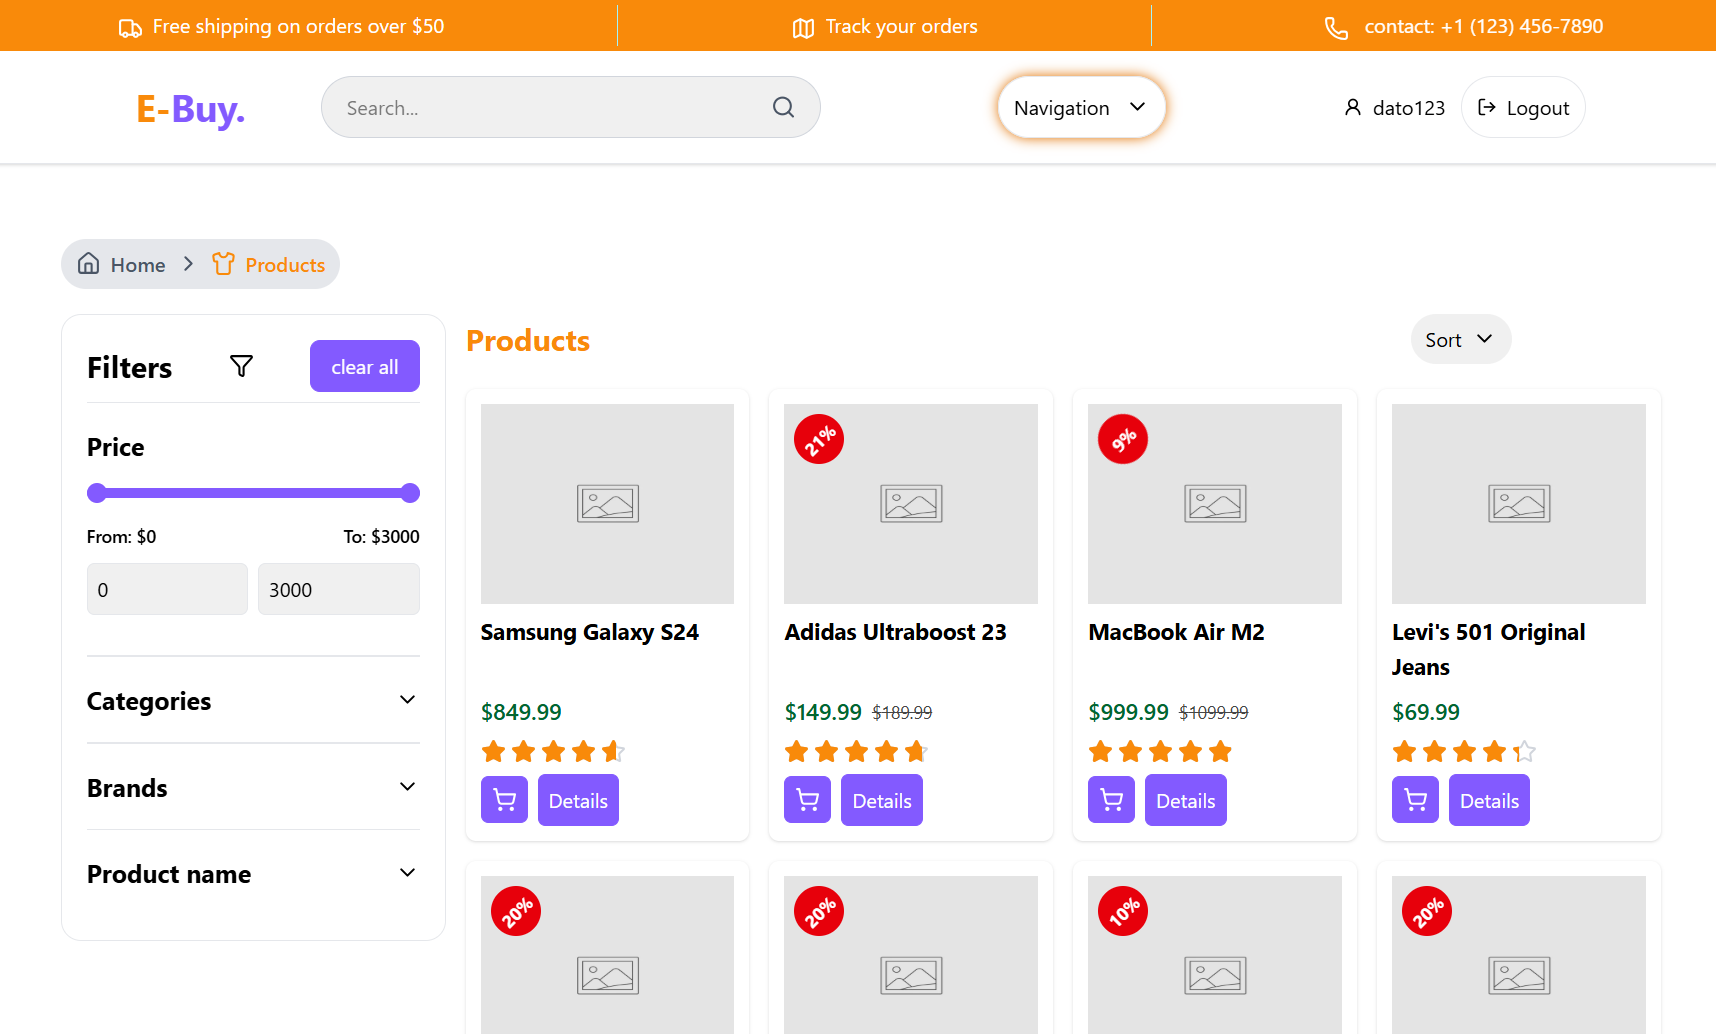
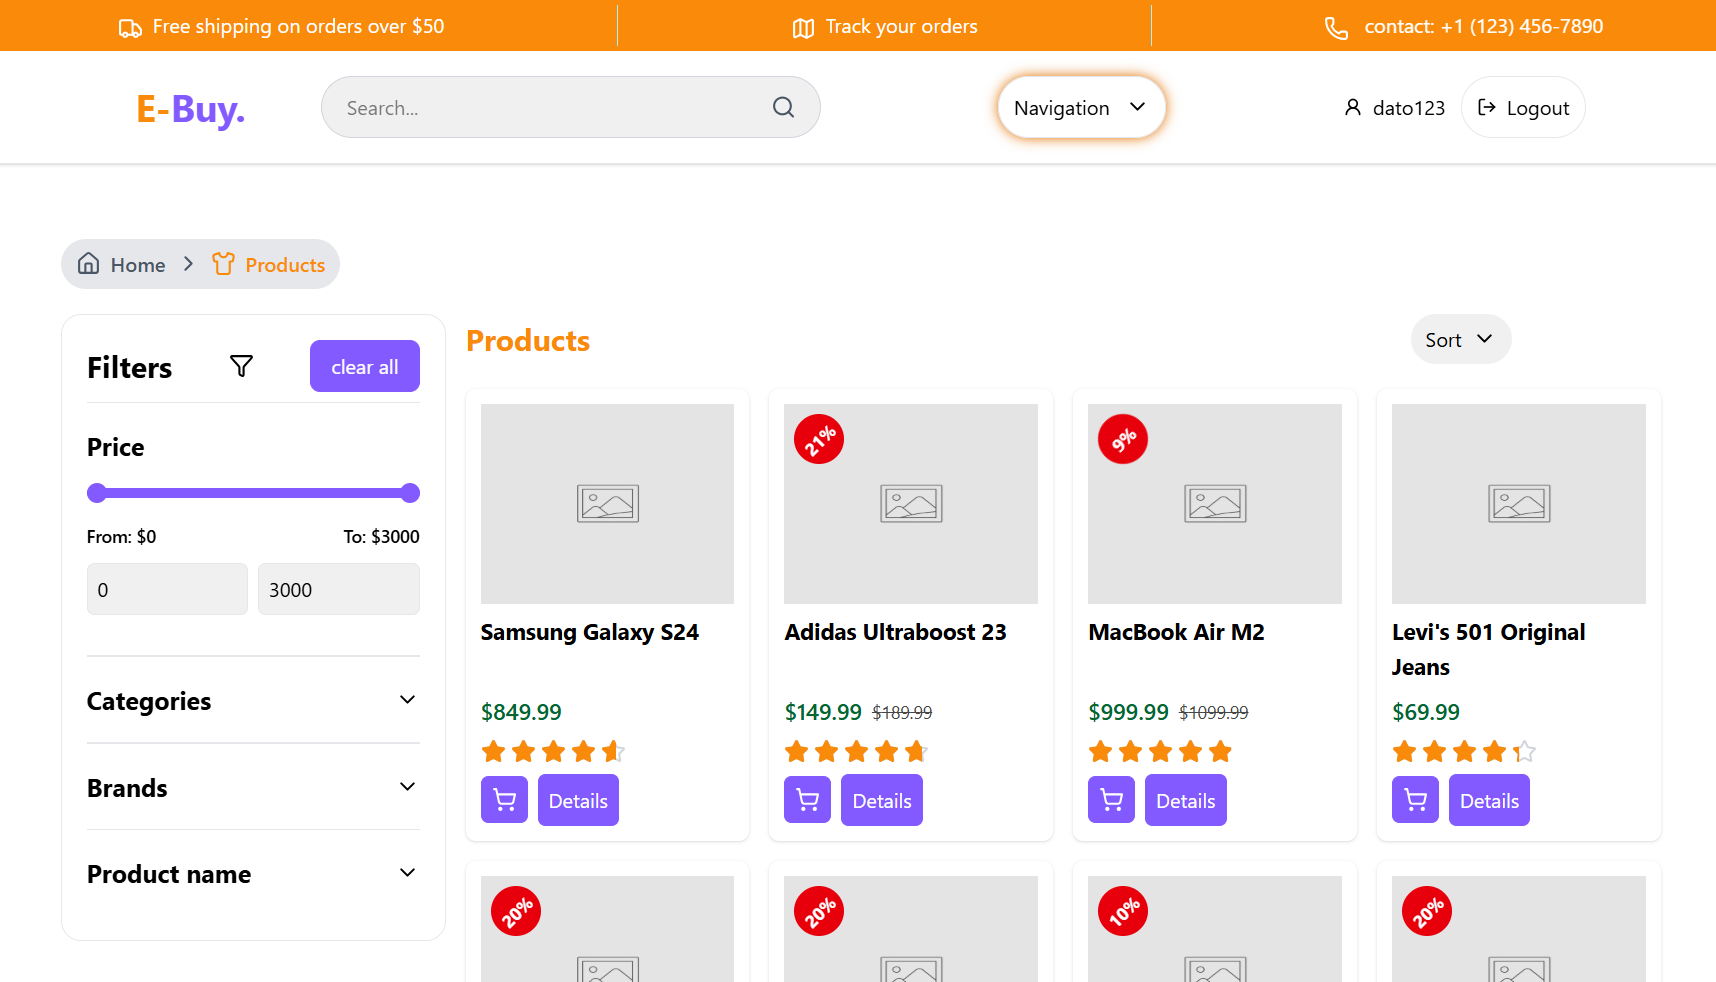
...

diff --git a/src/components/Projects.js b/src/components/Projects.js
@@ -15,6 +15,15 @@ const Projects = () => {
       accents: ["pixel-perfect", "responsive", "accessibility", "semantic HTML", "CSS-only burger menu", "best practices", "SEO-friendly", "performance optimization"]
     },
     {
+      img: assets.ecommercestatic,
+      title: "STATIC ECOMMERCE STORE",
+      languages: ["html", "css", "javascript"],
+      githubLink: "https://github.com/giorgi583/js_fp.git",
+      deployment: ["Github pages"],
+      link: "https://giorgi583.github.io/js_fp/",
+      accents: ["responsive", "accessibility", "semantic HTML", "Theme prefference", "best practices", "SEO-friendly", "performance optimization", "product search", "product filtering", "product sorting", "form validation", "fake API"]
+    },
+    {
       img: assets.movies,
       title: "MOVIES APP",
       languages: ["React", "Plain css"],
@@ -57,7 +66,7 @@ const Projects = () => {
       githubLink: "https://github.com/giorgi583/e-commerce.git",
       deployment: ["Render", "Neon"],
       link: "https://e-commerce-owmt.onrender.com/",
-      accents: [ "Full-stack", "Real Authorization/authentication", "admin pages", "responsive", "Lazy loading", "user-friendly", "pagination", "filtering",  "API integration",  "routes" ]
+      accents: [ "Full-stack", "Real Authorization/authentication", "admin pages", "responsive", "Lazy loading", "user-friendly", "pagination",  "API integration",  "product sorting/filtering", "cart", "checkout", "details page" ]
     },
     {
       img: assets.financial,

diff --git a/src/assets/assets.js b/src/assets/assets.js
@@ -1,5 +1,6 @@
 import sprivaten from './projectPics/sprivaten.png'
 import ecommerce from './projectPics/ecommerce.png'
+import ecommercestatic from './projectPics/ecommerce-js.png'
 import movies from './projectPics/movies.png'
 import tictactoe from './projectPics/tictactoe.png'
 import financial from './projectPics/financial.png'
@@ -7,12 +8,10 @@ import aiagency from './projectPics/ai-agency.png'
 import resume from './projectPics/resume.png'
 import frontendBlack from './frontendmentor-svgrepo-com (4).svg'
 import frontend from './frontendmentor-svgrepo-com (3).svg'
-import group from './Group26.png'
-import oval from './Oval.svg'
 import avatar from './avatar.svg'
 import dark from "./dark_mode_24dp_000000_FILL0_wght400_GRAD0_opsz24.svg"
 import light from './light_mode_24dp_FFFFFF_FILL0_wght400_GRAD0_opsz24.svg'
 
-const assets = { sprivaten, ecommerce, movies, tictactoe, financial, aiagency, resume, frontend, frontendBlack, group, oval, avatar, dark, light }
+const assets = { sprivaten, ecommerce, ecommercestatic, movies, tictactoe, financial, aiagency, resume, frontend, frontendBlack,     avatar, dark, light }
 
 export default assets
